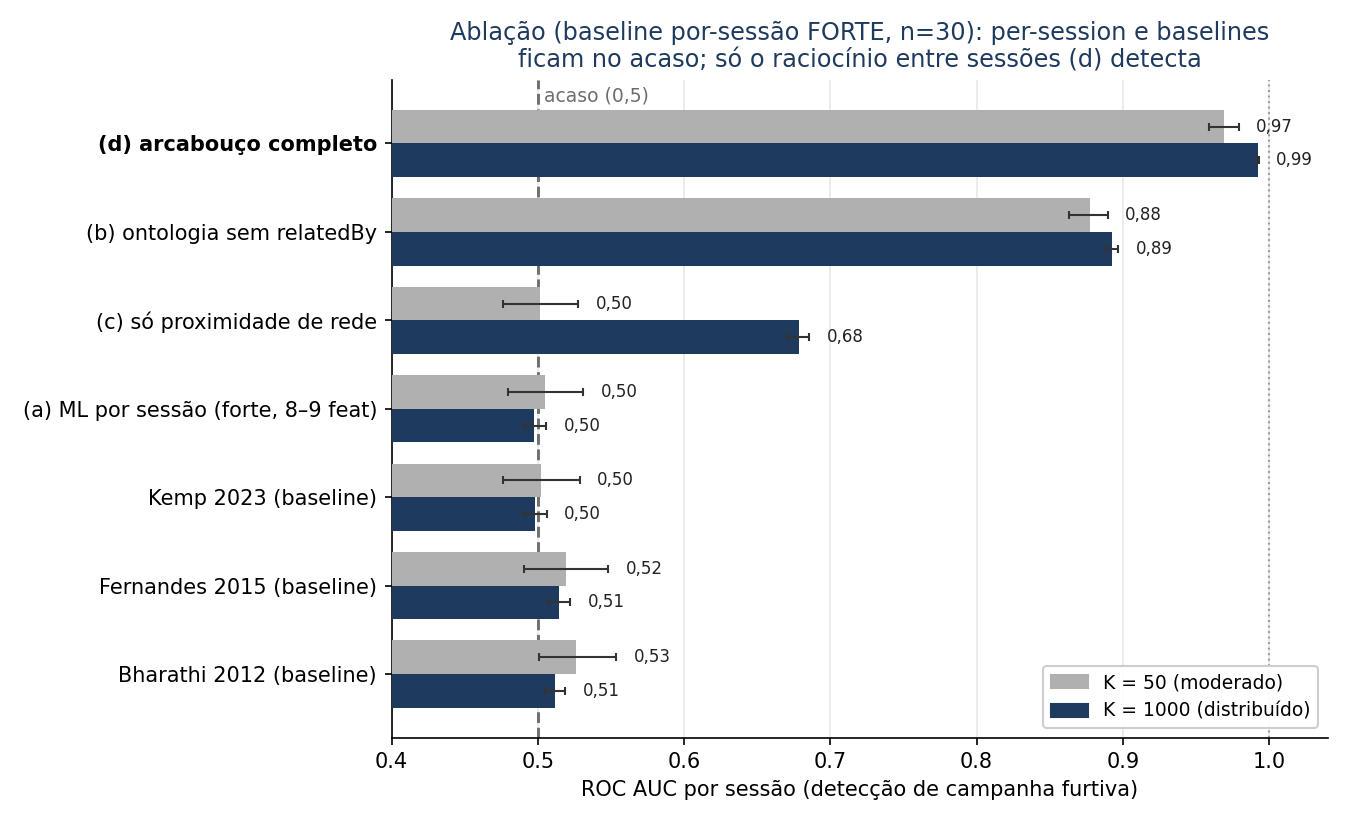
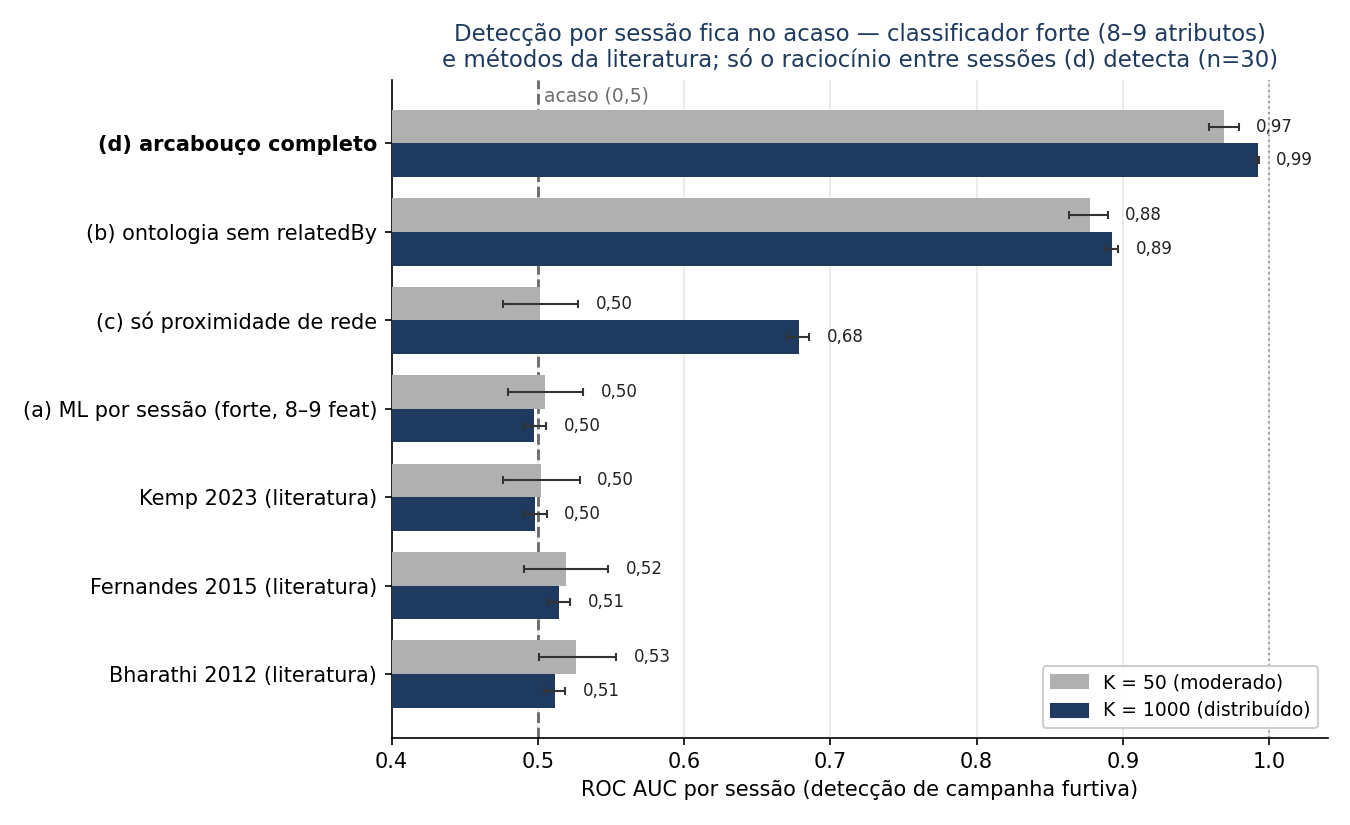
money figure: clearer title + label literature methods as '(literatura)'
Old title overloaded 'baseline' (meaning both config (a) and the 3 literature methods) and
mixed 'per-session'/'entre sessoes'. New title: 'Deteccao por sessao fica no acaso —
classificador forte (8-9 atributos) e metodos da literatura; so o raciocinio entre sessoes
(d) detecta (n=30)'. Axis labels: '(baseline)' -> '(literatura)'.

diff --git a/experiments/sprint-4/scripts/make_money_figure.py b/experiments/sprint-4/scripts/make_money_figure.py
@@ -22,9 +22,9 @@ ORDER = ["base:bharathi2012", "base:fernandes2015", "base:kemp2023",
          "a_ml_sem_ontologia", "c_so_network_proximity",
          "b_ontologia_sem_related", "d_completo"]
 LABELS = {
-    "base:bharathi2012": "Bharathi 2012 (baseline)",
-    "base:fernandes2015": "Fernandes 2015 (baseline)",
-    "base:kemp2023": "Kemp 2023 (baseline)",
+    "base:bharathi2012": "Bharathi 2012 (literatura)",
+    "base:fernandes2015": "Fernandes 2015 (literatura)",
+    "base:kemp2023": "Kemp 2023 (literatura)",
     "a_ml_sem_ontologia": "(a) ML por sessão (forte, 8–9 feat)",
     "c_so_network_proximity": "(c) só proximidade de rede",
     "b_ontologia_sem_related": "(b) ontologia sem relatedBy",
@@ -64,9 +64,9 @@ def main():
     ax.get_yticklabels()[ORDER.index("d_completo")].set_fontweight("bold")
     ax.set_xlim(0.4, 1.04)
     ax.set_xlabel("ROC AUC por sessão (detecção de campanha furtiva)")
-    ax.set_title("Ablação (baseline por-sessão FORTE, n=30): per-session e baselines\n"
-                 "ficam no acaso; só o raciocínio entre sessões (d) detecta", fontsize=11.5,
-                 color="#1f3a5f")
+    ax.set_title("Detecção por sessão fica no acaso — classificador forte (8–9 atributos)\n"
+                 "e métodos da literatura; só o raciocínio entre sessões (d) detecta (n=30)",
+                 fontsize=11, color="#1f3a5f")
     ax.legend(handles=[Patch(color=C50, label="K = 50 (moderado)"),
                        Patch(color=C1000, label="K = 1000 (distribuído)")],
               loc="lower right", fontsize=9, framealpha=0.95)
